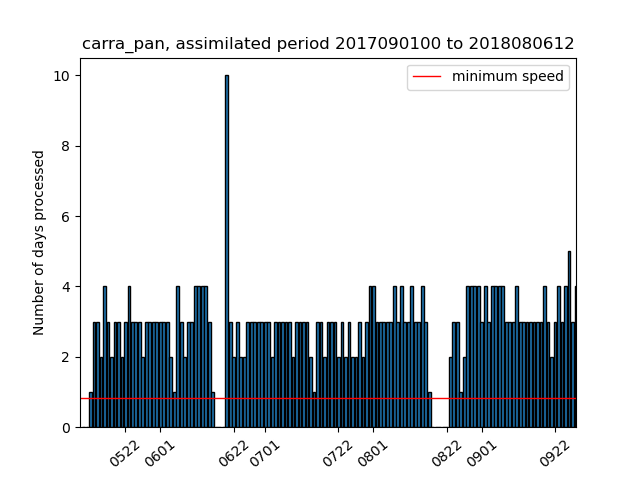
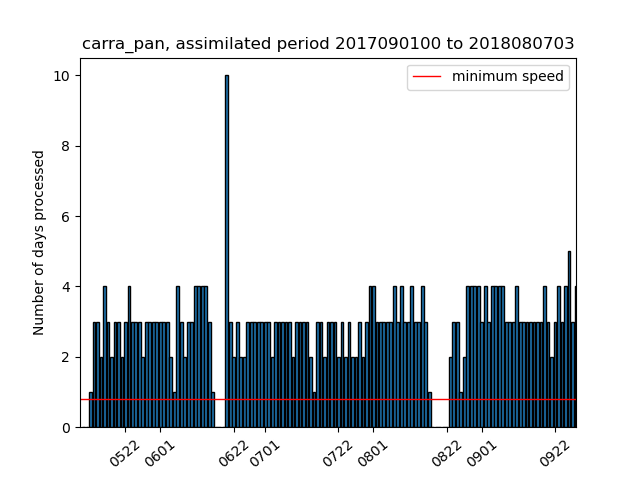
update repo

Changed region(s): [[0.125, 0.8125, 0.9062, 0.8438], [0.8438, 0.0625, 0.9062, 0.125]]

diff --git a/current_state_sims.html b/current_state_sims.html
@@ -2,18 +2,18 @@
 <h1>Estimated completion dates and simulation speeds</h1>
 <p>Stream (production) completion date based on 30d (7d) moving avg speed</p>
 <p><a href="https://docs.google.com/document/d/1zDKAxuEXYnWWYzT3SZnZwY5WW8nodUMeYRjAGz46coc/edit#">Details of the calculation of the completion dates</a></p>
-<p>Last update: 2021/09/29 08:41:29 UTC</p>
+<p>Last update: 2021/09/29 12:42:50 UTC</p>
 <p>Total progress CARRA: 99.33% <a href="https://hirlam.org/portal/CARRA/Progress/GanntChart_CARRA.html"> (see detailed progress meter in Gantt chart) </a></p>
 <p>Total progress PANARCTIC: 91.67% </p>
 <p><a href="https://hirlam.org/portal/CARRA/Progress/waiting_times.html"> Queue waiting times for all streams</a></p>
 <p><a href="https://hirlam.org/portal/CARRA/Progress/mars_status.html"> MARS archive throughput </a></p>
 <html><table border="1"><tr><th>expId</th><th>Current assimilated date</th><th>End date of stream </th><th> Completion date</th><th> Avg. throughput (7d) </th> <th>Avg. throughput (30d) </th> <th> Remarks</tr>
-<tr bgcolor="#FFFF00"><td>carra_NE_3</td><td>2021063000</td><td>2021063021</td><td>2021092908</td><td>(0.0) days/day</td><td>(3.57) days/day</td><td>Inactive the past week</tr>
+<tr bgcolor="#FFFF00"><td>carra_NE_3</td><td>2021063000</td><td>2021063021</td><td>2021092912</td><td>(0.0) days/day</td><td>(3.57) days/day</td><td>Inactive the past week</tr>
 <tr bgcolor="#33FF38"><td>carra_NE_4</td><td>1992090100</td><td>1992083021</td><td>Finished on 20210824</td><td>(0.0) days/day</td><td>(0.0) days/day</td><td>Stream finished</tr>
 <tr bgcolor="#33FF38"><td>carra_NE_5</td><td>1994090100</td><td>1994083021</td><td>Finished on 20210824</td><td>(0.0) days/day</td><td>(0.0) days/day</td><td>Stream finished</tr>
-<tr bgcolor="#33FF38"><td>carra_NE_6</td><td>1997070100</td><td>1997063021</td><td>2021092902</td><td>(0.0) days/day</td><td>(3.87) days/day</td><td>Stream finished</tr>
-<tr bgcolor="#FFFF00"><td>carra_IGB_3</td><td>2021063000</td><td>2021063021</td><td>2021092908</td><td>(0.0) days/day</td><td>(3.43) days/day</td><td>Inactive the past week</tr>
-<tr bgcolor="#33FF38"><td>carra_IGB_4</td><td>1992090100</td><td>1992083021</td><td>2021092806</td><td>(0.0) days/day</td><td>(1.8) days/day</td><td>Stream finished</tr>
-<tr bgcolor="#33FF38"><td>carra_IGB_5</td><td>1994090100</td><td>1994083021</td><td>2021092823</td><td>(3.14) days/day</td><td>(5.2) days/day</td><td>Stream finished</tr>
-<tr bgcolor="#FFA500"><td>carra_IGB_6</td><td>1996121812</td><td>1997063021</td><td>2021110105</td><td>(6.71) days/day</td><td>(5.9) days/day</td><td>Completion date after project end (20211031)</tr>
-<tr bgcolor="#FFFFFF"><td>carra_pan</td><td>2018080612</td><td>2018090100</td><td>2021100622</td><td>(3.71) days/day</td><td>(3.43) days/day</td><td></tr>
+<tr bgcolor="#33FF38"><td>carra_NE_6</td><td>1997070100</td><td>1997063021</td><td>2021092906</td><td>(0.0) days/day</td><td>(3.87) days/day</td><td>Stream finished</tr>
+<tr bgcolor="#FFFF00"><td>carra_IGB_3</td><td>2021063000</td><td>2021063021</td><td>2021092912</td><td>(0.0) days/day</td><td>(3.43) days/day</td><td>Inactive the past week</tr>
+<tr bgcolor="#33FF38"><td>carra_IGB_4</td><td>1992090100</td><td>1992083021</td><td>2021092810</td><td>(0.0) days/day</td><td>(1.8) days/day</td><td>Stream finished</tr>
+<tr bgcolor="#33FF38"><td>carra_IGB_5</td><td>1994090100</td><td>1994083021</td><td>2021092903</td><td>(3.14) days/day</td><td>(5.2) days/day</td><td>Stream finished</tr>
+<tr bgcolor="#FFA500"><td>carra_IGB_6</td><td>1996121921</td><td>1997063021</td><td>2021110105</td><td>(6.71) days/day</td><td>(5.9) days/day</td><td>Completion date after project end (20211031)</tr>
+<tr bgcolor="#FFFFFF"><td>carra_pan</td><td>2018080703</td><td>2018090100</td><td>2021100619</td><td>(3.71) days/day</td><td>(3.43) days/day</td><td></tr>
